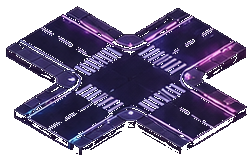
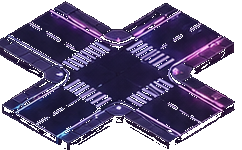
Fix street-tile seams in the city-grid prototype
Root cause: each road tile was cropped tight to its own lit content, so
every tile PNG had a slightly different pixel size. Scaling all tiles
to the same TILE_W then gave each a different displayed height, causing
the visible gaps/offsets between neighboring tiles.

Fixes, iterated against real screenshots:
- One canonical 242x150 canvas for every tile, cropped centered on a
  precisely measured point in the source sheet (not a tight bbox).
- ~9% render bleed so tile edges overlap slightly instead of leaving a
  sub-pixel gap.
- A plain pavement fill layer behind cross/corner/T tiles, whose sheet
  art only paints the road surface and leaves the diamond's corners
  transparent (composition of the source art, not a crop bug) - without
  the fill, the canvas showed through as black notches.
- The plot-marker tile was accidentally cropped from a window that
  bled in neighboring row content (stray triangle above every empty
  lot); re-measured from a clean window.

Confirmed non-fixable by cropping: road_corner's silhouette is rounded/
blocky while straight/cross/plot have sharp diamond points - checked
the other corner-shaped candidates in the sheet, none match. Needs new
artwork, not more crop iteration - documented in the README.

diff --git a/prototypes/city-grid/main.js b/prototypes/city-grid/main.js
@@ -5,7 +5,16 @@
 import { Application, Assets, Sprite, Graphics, Container } from "./vendor/pixi.min.mjs";
 
 const GRID = 5;                 // 5x5 Zellen: Grundstücke auf geraden (r,c), Straßen dazwischen
-const TILE_W = 240, TILE_H = 140; // grob aus dem Straßen-Sheet vermessen (siehe Konversation)
+// Alle Kachel-PNGs sind jetzt auf EXAKT dieselbe Leinwand (242×150, aus dem Sheet vermessen und
+// zentriert zugeschnitten) gebracht — nur so landen Kanten benachbarter Kacheln auf derselben
+// Linie. Vorher hatte jede Kachel eine eigene, leicht andere Größe (Tight-Bbox je Motiv), wodurch
+// „TILE_W / tex.width“ pro Kachel eine ANDERE Bildhöhe ergab → sichtbare Versätze/Lücken.
+const TILE_W = 242, TILE_H = 150;
+// Kacheln werden geringfügig größer als der Grid-Schritt gerendert (Bleed), damit ihre gerenderten
+// Ränder einander leicht überlappen statt mit einer Ein-Pixel-Lücke aneinanderzustoßen — die
+// Sheet-Kacheln tragen je eine eigene Leuchtrand-Deko, kein nahtloses Straßenmuster; das Bleed
+// kaschiert die doppelte Randlinie an der Naht, ersetzt sie aber nicht durch echte Nahtlosigkeit.
+const TILE_BLEED = 1.09;
 const BUILD_MS = 750;
 
 const isPlot = (r, c) => r % 2 === 0 && c % 2 === 0;
@@ -44,6 +53,7 @@ async function main() {
   const built = new Map();       // key -> buildingIndex (0|1)
   const plotSprites = new Map(); // key -> leere-Grundstück-Sprite (entfernt sobald gebaut)
   const roadSprites = new Map(); // key -> aktives Straßen-Sprite
+  const roadFillSprites = new Map(); // key -> Pflaster-Unterlage (füllt die Kreuz-/Ecken-Kerben)
   let buildCount = 0;
 
   // ---- Leeres Grid: nur die Grundstücks-Platzhalter, keine Straße sichtbar --
@@ -53,9 +63,9 @@ async function main() {
       const { x, y } = cellToScreen(r, c);
       const tex = textures[ASSETS.plot];
       const s = new Sprite(tex);
-      s.anchor.set(0.5, 0);
-      s.scale.set(TILE_W / tex.width);
-      s.position.set(x, y);
+      s.anchor.set(0.5, 0.5); // Bleed muss symmetrisch um die Kachel-Mitte wachsen, nicht nur nach unten
+      s.scale.set((TILE_W * TILE_BLEED) / tex.width);
+      s.position.set(x, y + TILE_H / 2);
       s.zIndex = r + c;
       s.eventMode = "static";
       s.cursor = "pointer";
@@ -182,11 +192,30 @@ async function main() {
       if (!active.has(k)) {
         const existing = roadSprites.get(k);
         if (existing) { existing.destroy(); roadSprites.delete(k); }
+        const fill = roadFillSprites.get(k);
+        if (fill) { fill.destroy(); roadFillSprites.delete(k); }
         continue;
       }
       const conn = connectionsFor(r, c, active);
       const { tex: texKey, rotation } = tileFor(conn);
       const tex = textures[texKey];
+      const { x, y } = cellToScreen(r, c);
+
+      // Pflaster-Unterlage: road_cross/road_corner lassen an ihren Diamant-Ecken transparente Kerben
+      // frei (eigene Bildkomposition, kein Zuschnittfehler — siehe Konversation). Eine schlichte
+      // volle Kachel dahinter verhindert, dass dort der schwarze Canvas-Hintergrund durchscheint.
+      let fill = roadFillSprites.get(k);
+      if (!fill) {
+        fill = new Sprite(textures[ASSETS.roadStraight]);
+        fill.anchor.set(0.5, 0.5);
+        fill.zIndex = r + c - 0.1;
+        world.addChild(fill);
+        roadFillSprites.set(k, fill);
+      }
+      const fillScale = (TILE_W * TILE_BLEED) / textures[ASSETS.roadStraight].width;
+      fill.scale.set(fillScale);
+      fill.position.set(x, y + (textures[ASSETS.roadStraight].height * fillScale) / 2);
+
       let s = roadSprites.get(k);
       if (!s) {
         s = new Sprite(tex);
@@ -196,10 +225,9 @@ async function main() {
         roadSprites.set(k, s);
       }
       s.texture = tex;
-      const scale = TILE_W / tex.width;
+      const scale = (TILE_W * TILE_BLEED) / tex.width;
       s.scale.set(scale);
       s.rotation = rotation;
-      const { x, y } = cellToScreen(r, c);
       s.position.set(x, y + (tex.height * scale) / 2); // anchor moved to center → recenter on the tile's midpoint
     }
   }

diff --git a/prototypes/city-grid/README.md b/prototypes/city-grid/README.md
@@ -45,6 +45,22 @@ der passenden Kachel (gerade/Ecke/T/Kreuzung) belegt.
   für den Prototyp-Zweck.
 - **Chroma-Key-Freistellung funktioniert** für Gebäude (Grün raus) und Straßen (dunkler Hintergrund
   raus) ohne sichtbare Löcher; ein dünner Farbsaum an Kanten ist normale Anti-Aliasing-Restfarbe.
+- **Kachel-Nähte: gefunden, behoben, eine Grenze bleibt** (zweite Iterationsrunde, gegen die
+  ersten Screenshots geprüft). Ursache der sichtbaren Lücken/Versätze war NICHT das Grid, sondern
+  dass jede Straßen-Kachel von der ursprünglichen Zuschneide-Logik eine eigene, leicht andere
+  Pixel-Größe bekam (Tight-Bbox je Motiv) — dieselbe `TILE_W`-Skalierung ergab dadurch pro Kachel
+  eine andere Höhe. Behoben durch **eine einzige kanonische Leinwandgröße (242×150) für alle
+  Kacheln**, zentriert auf den vermessenen Mittelpunkt im Original-Sheet zugeschnitten, plus ~9 %
+  **Bleed** (Kacheln geringfügig größer als der Grid-Schritt gerendert, überlappen sich leicht statt
+  mit Ein-Pixel-Spalt aneinanderzustoßen). Zusätzlich: `road_cross`/`road_tjunction`/`road_corner`
+  im Sheet malen nur die Fahrbahn selbst, lassen die Diamant-Ecken dazwischen transparent (eigene
+  Bildkomposition, kein Zuschnittfehler) — dort schien vorher der schwarze Canvas-Hintergrund durch.
+  Eine schlichte Pflaster-Unterlage (`road_straight` als Füllkachel hinter jeder aktiven Straßenzelle)
+  behebt das. **Nicht behebbar durch Zuschneiden:** Die Ecken-Kachel (`road_corner`) hat im Sheet
+  eine runde/blockige Silhouette, während gerade/Kreuz/Grundstück-Kacheln scharfe Diamantspitzen
+  haben — ich habe die Alternativ-Kandidaten im Sheet (die zwei „Kurven"-Kacheln aus Zeile 1, die
+  gespiegelte Ecke aus Zeile 3) geprüft, keine ist eine scharfe 90°-Diamant-Ecke. Echte Konsistenz
+  braucht hier neue Artwork, nicht mehr Zuschneide-Iteration.
 
 ## Dateien
 
